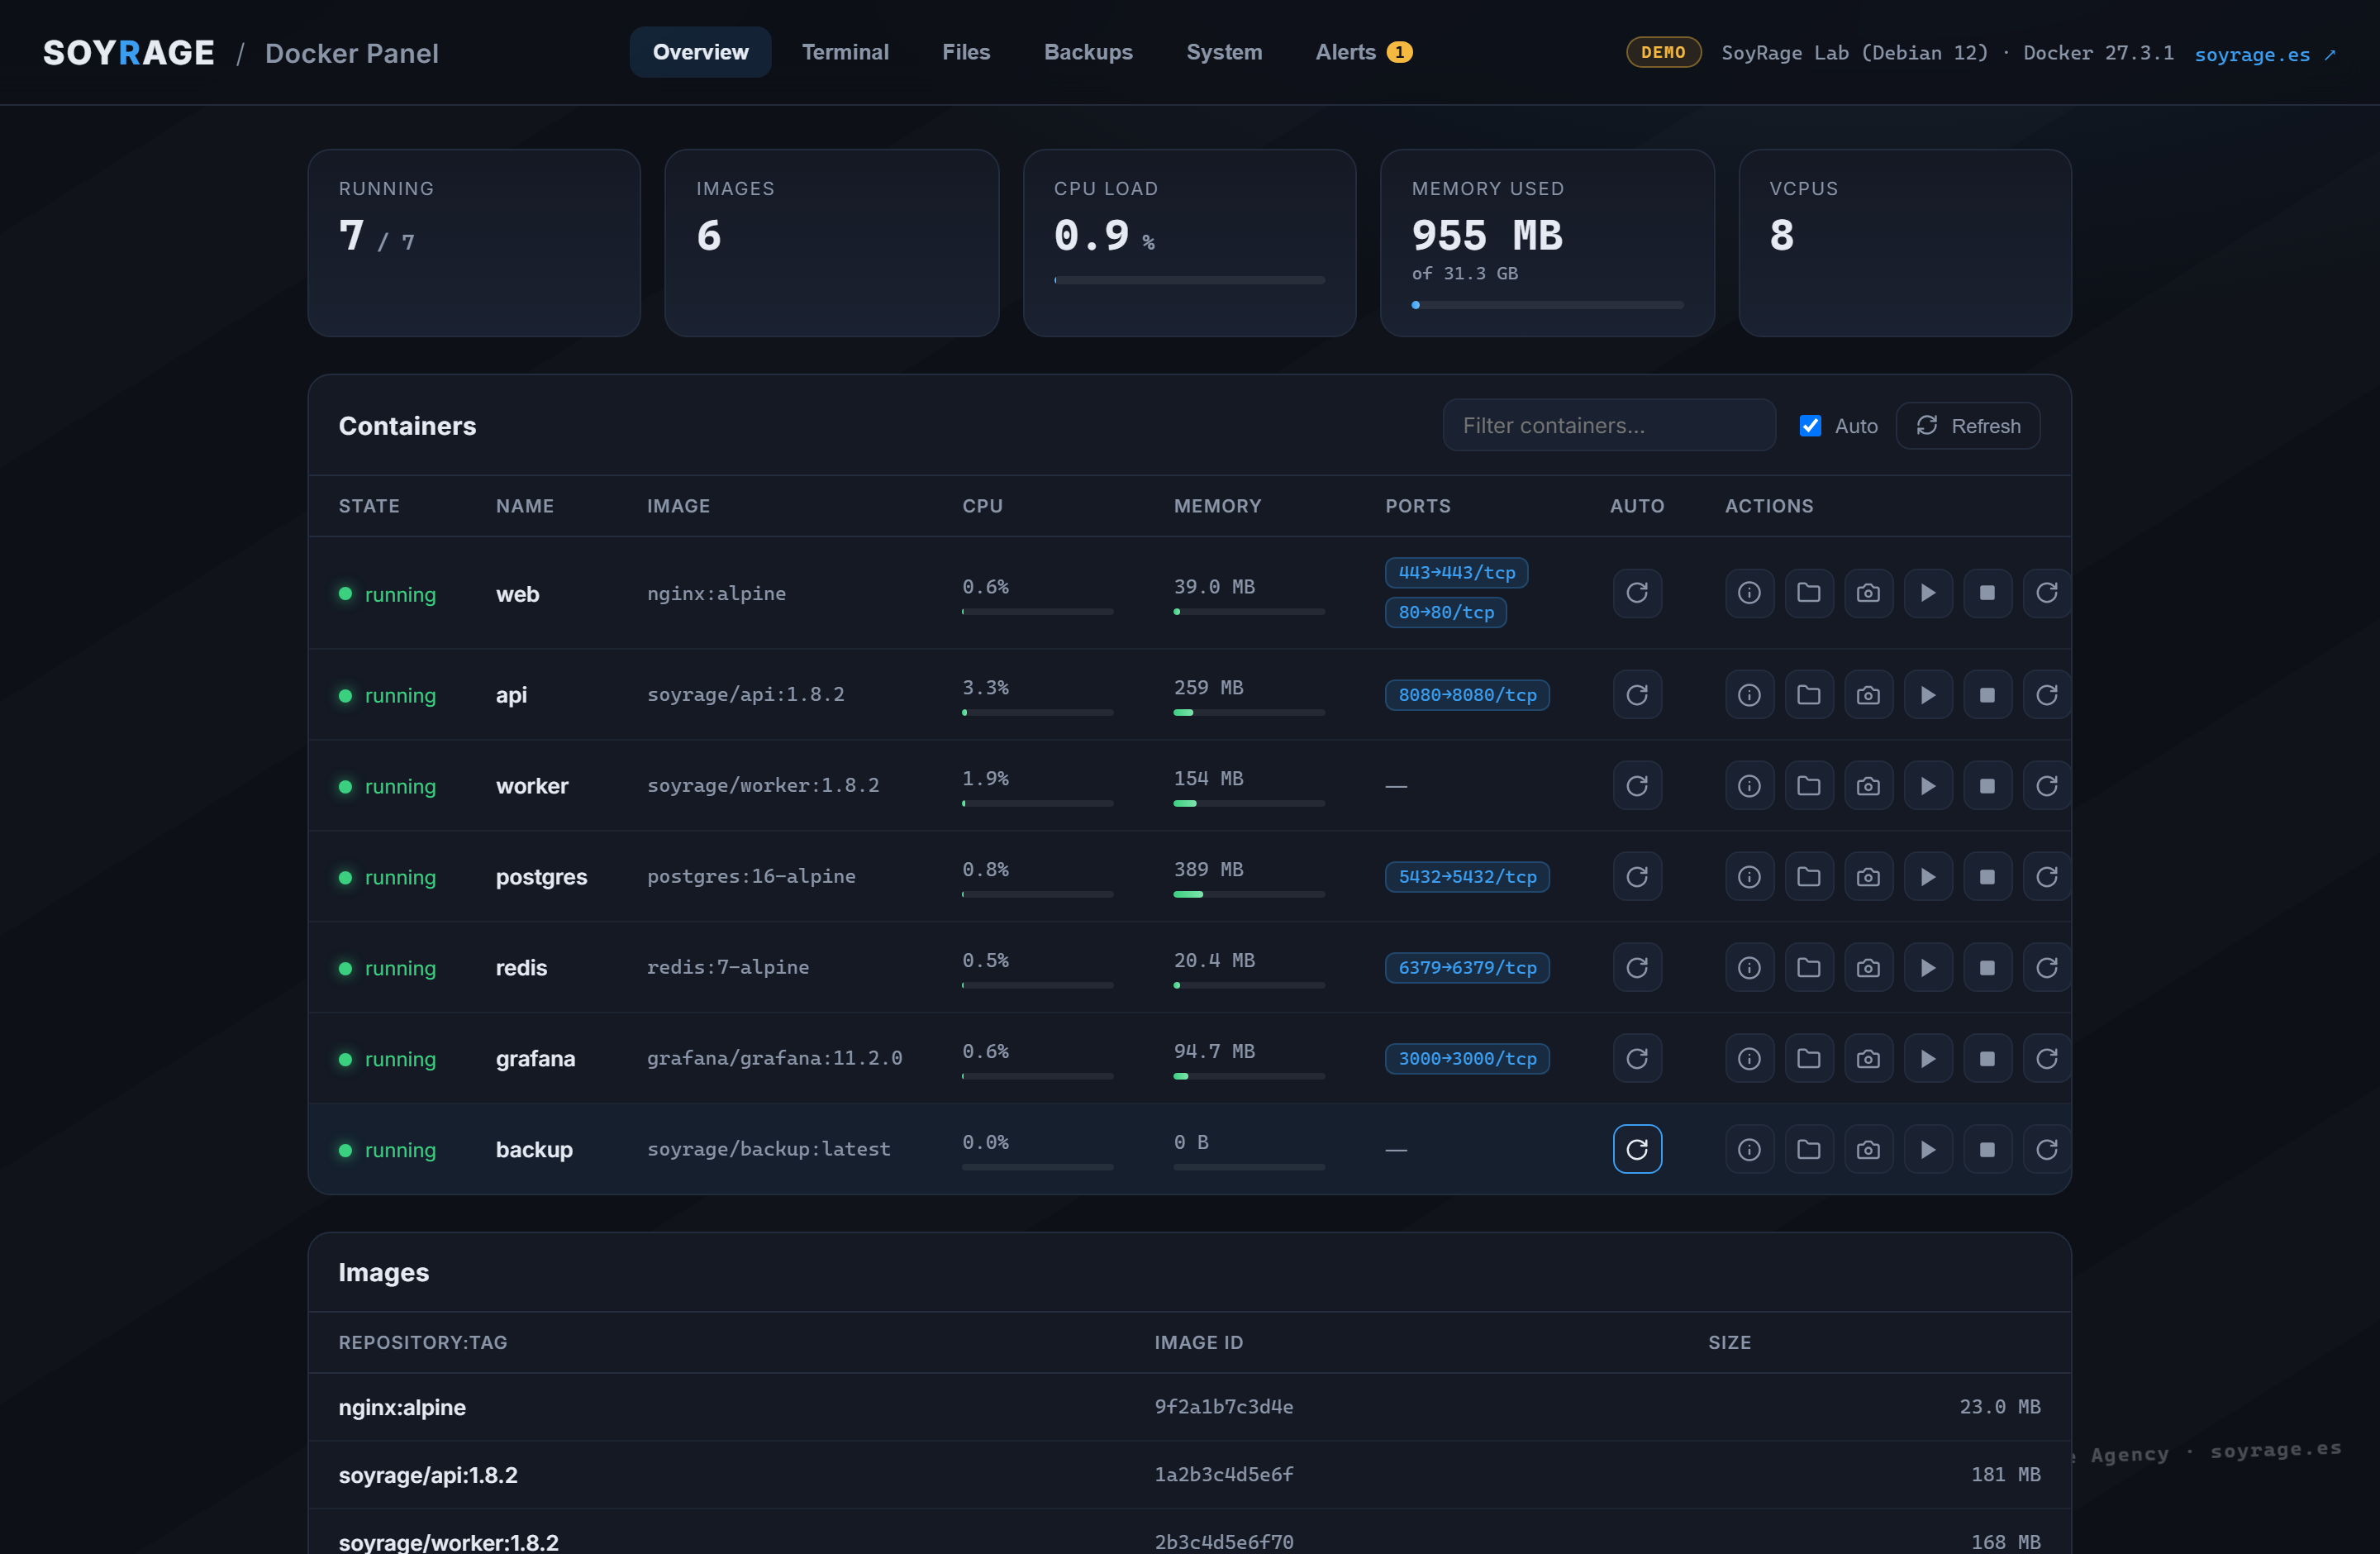
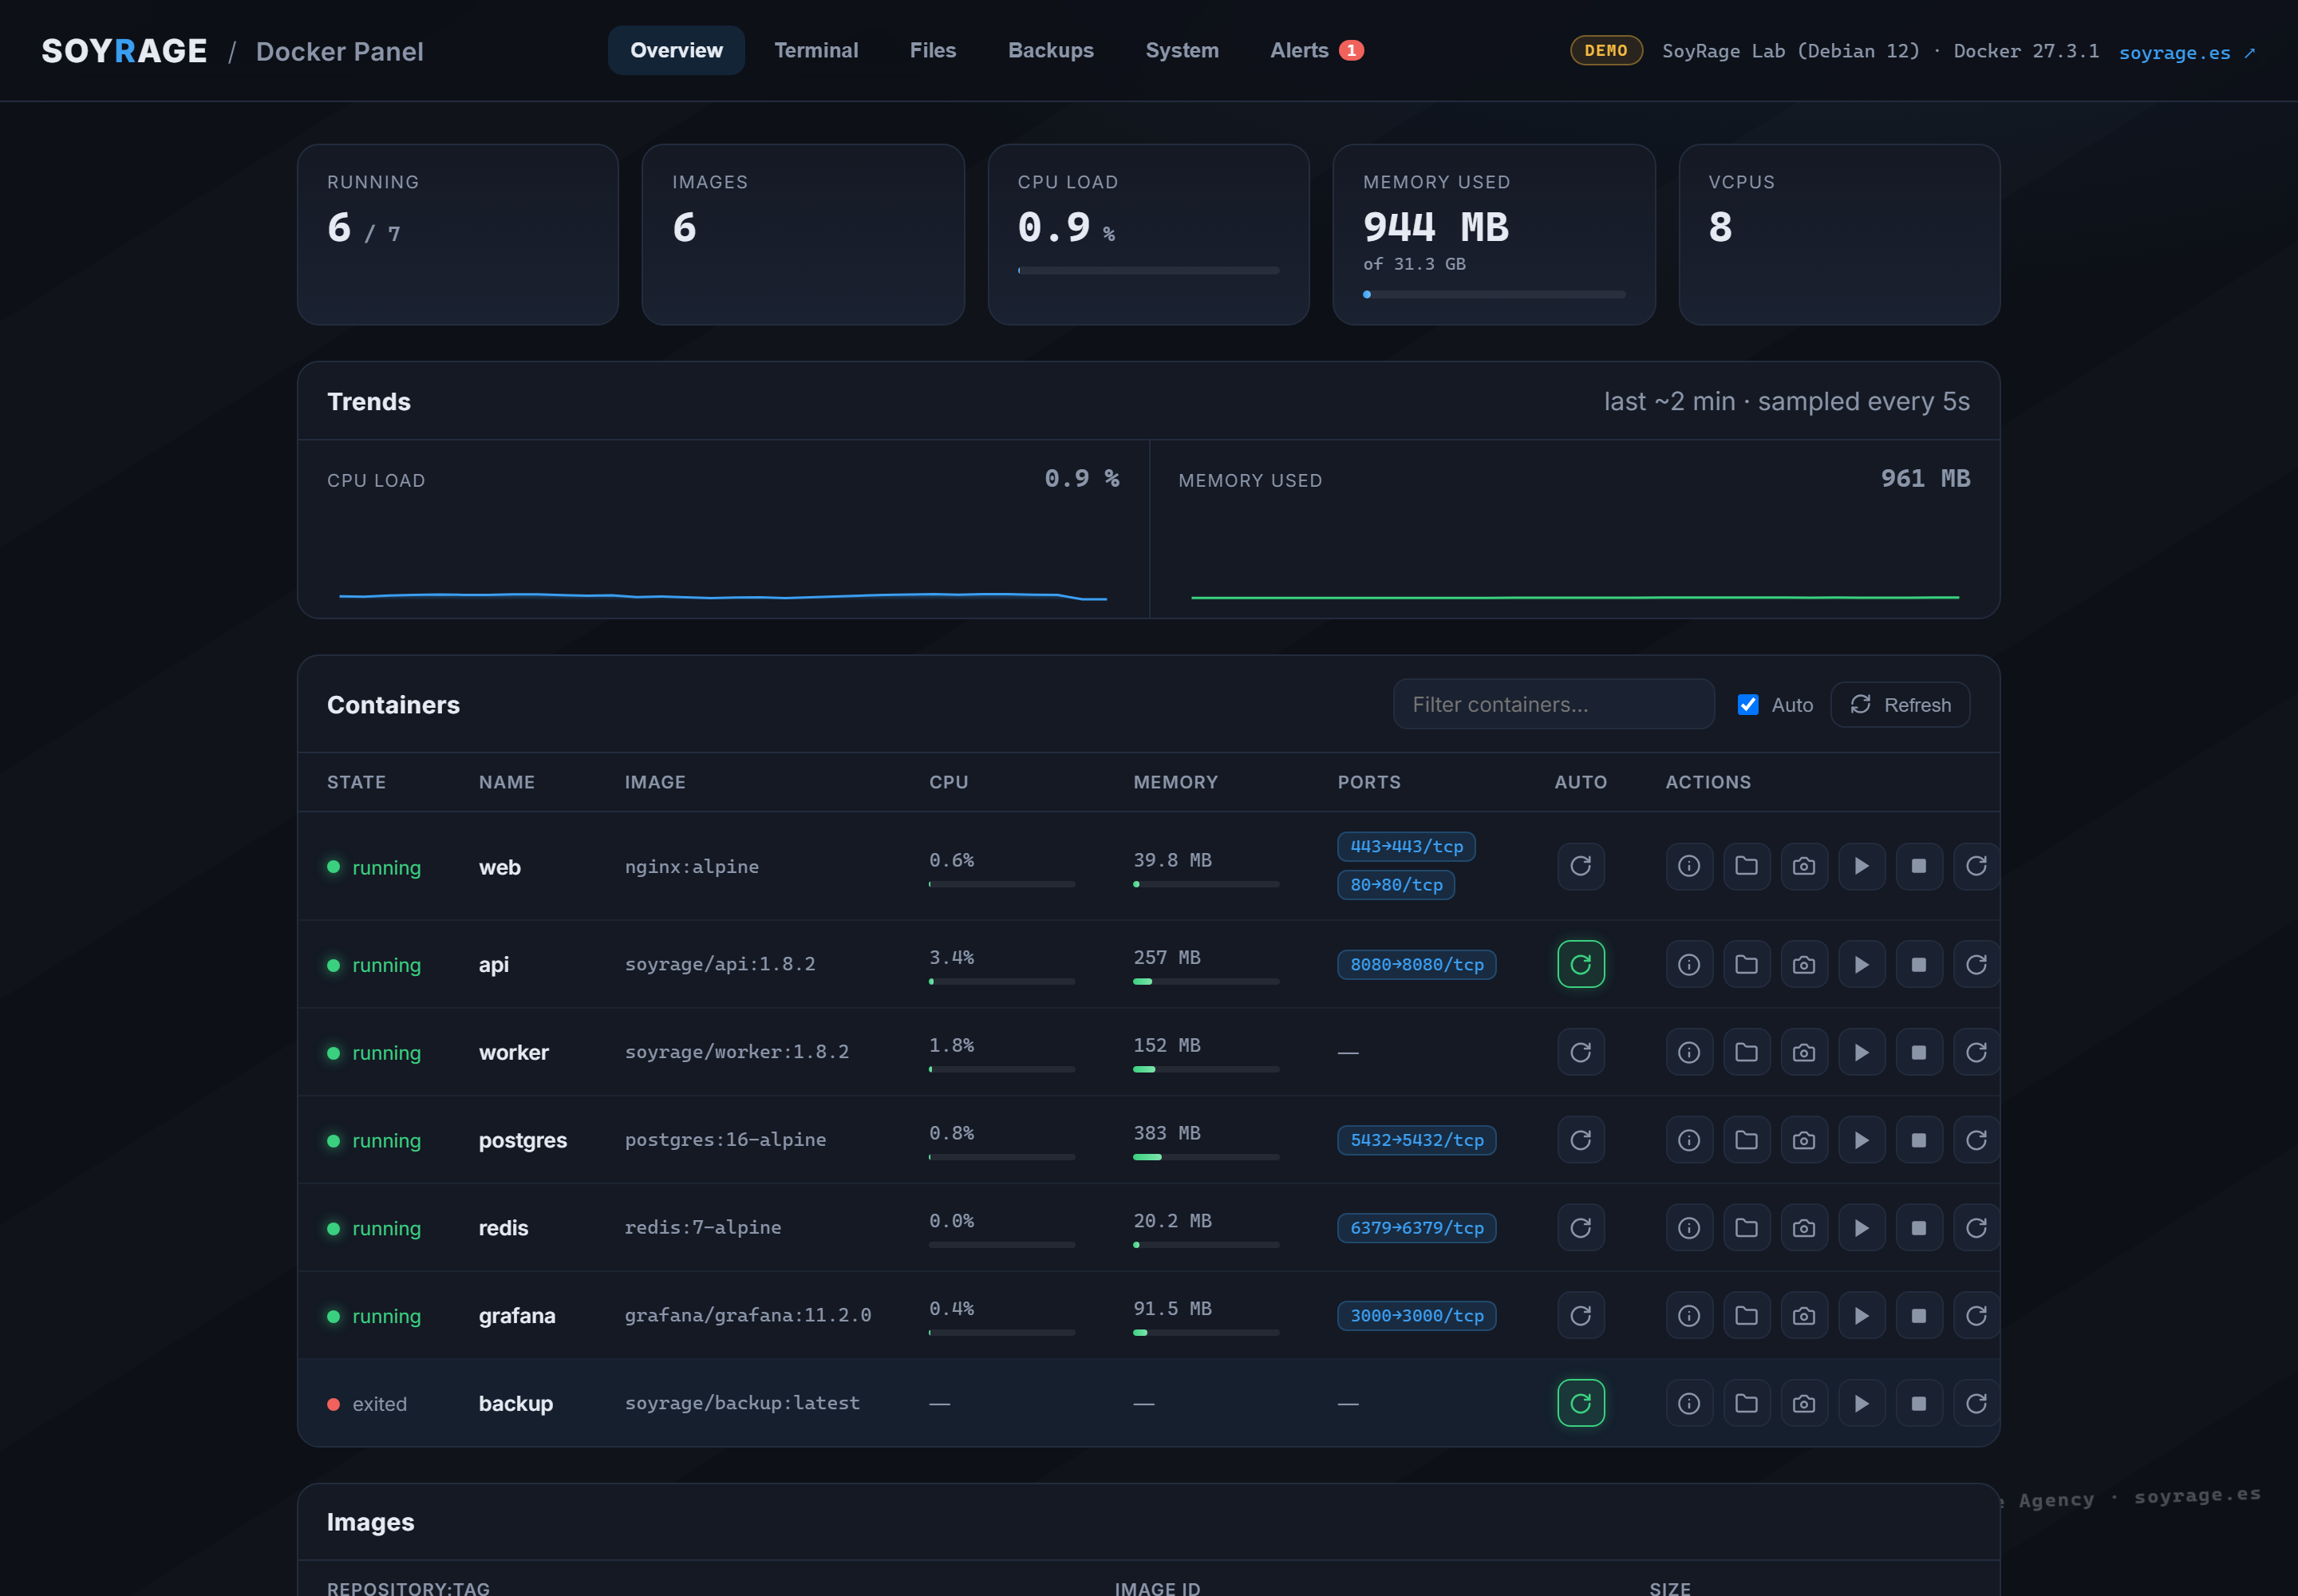
feat: historical CPU/MEM trend charts + GitHub Actions CI
Trends charts
- Panel Overview gains a 'Trends' card with inline-SVG sparklines for CPU load
  and memory over time. Backend samples every 5s into a 60-point ring buffer
  (demo seeds 30 points); exposed via /api/history

Continuous integration
- .github/workflows/ci.yml: on push/PR runs npm ci, typecheck, build, then the
  deep e2e suite against a headless demo panel
- deep-test: cross-platform installer check (Win/macOS/Linux config paths) so
  CI passes on Ubuntu; +history check. Now 70/70

Docs
- README: CI badge, Trends in highlights/overview/API, roadmap ticks, a
  'Continuous integration' section; refreshed dashboard screenshot

Built by SoyRage Agency — https://soyrage.es/

diff --git a/src/panel/service.ts b/src/panel/service.ts
@@ -189,6 +189,10 @@ export class PanelService {
   private schedule: BackupSchedule = { enabled: false, time: "03:00", containers: ["all"], type: "commit", email: "" };
   private scheduler: NodeJS.Timeout | null = null;
   private lastScheduleRun = "";
+  /** Rolling time-series for the Trends charts (most recent last). */
+  private readonly history: Array<{ t: number; cpu: number; mem: number; memBytes: number }> = [];
+  private sampler: NodeJS.Timeout | null = null;
+  private static readonly HISTORY_CAP = 60;
 
   constructor(
     private readonly docker: DockerClient,
@@ -202,6 +206,13 @@ export class PanelService {
         { id: "snap-1001", container: "postgres", type: "export", ref: "./snapshots/postgres-20260716-0300.tar", sizeBytes: 214_958_080, createdAt: "2026-07-16T03:00:04.000Z", destination: "local + webhook" },
         { id: "snap-1000", container: "api", type: "commit", ref: "soyrage-snapshot/api:20260715-0300", sizeBytes: 189_792_256, createdAt: "2026-07-15T03:00:02.000Z", destination: "local" },
       );
+      // Seed the Trends charts so they aren't empty on first load.
+      const now = Date.now();
+      for (let i = 30; i > 0; i--) {
+        const cpu = 4 + Math.sin(i / 3) * 2 + Math.random() * 1.5;
+        const memBytes = 900_000_000 + Math.sin(i / 5) * 60_000_000 + Math.random() * 30_000_000;
+        this.history.push({ t: now - i * 5000, cpu: Math.max(0, cpu), mem: (memBytes / 33_567_776_768) * 100, memBytes });
+      }
     }
   }
 
@@ -371,6 +382,30 @@ export class PanelService {
   stopWatchdog(): void {
     if (this.watchdog) clearInterval(this.watchdog);
     this.watchdog = null;
+  }
+
+  /** Recent CPU/memory samples for the Trends charts. */
+  getHistory(): Array<{ t: number; cpu: number; mem: number; memBytes: number }> {
+    return [...this.history];
+  }
+
+  /** Start sampling CPU/memory into the history ring buffer. */
+  startSampler(intervalMs = 5000): void {
+    if (this.sampler) return;
+    this.sampler = setInterval(() => void this.tickSampler(), intervalMs);
+    if (typeof this.sampler.unref === "function") this.sampler.unref();
+  }
+
+  private async tickSampler(): Promise<void> {
+    try {
+      const snap = await this.snapshot();
+      const cpuPct = snap.system.cpus ? Math.min(100, snap.cpuTotal / snap.system.cpus) : snap.cpuTotal;
+      const memPct = snap.system.memoryBytes ? (snap.memoryUsed / snap.system.memoryBytes) * 100 : 0;
+      this.history.push({ t: Date.now(), cpu: Number(cpuPct.toFixed(2)), mem: Number(memPct.toFixed(2)), memBytes: snap.memoryUsed });
+      while (this.history.length > PanelService.HISTORY_CAP) this.history.shift();
+    } catch {
+      /* transient */
+    }
   }
 
   private async tickWatchdog(): Promise<void> {

diff --git a/src/panel/public/app.js b/src/panel/public/app.js
@@ -112,6 +112,38 @@ function usageCell(level, label, pct) {
     <div class="meter ${tone}"><span style="width:${Math.min(100, pct).toFixed(1)}%"></span></div></div>`;
 }
 
+/** Render an inline SVG area sparkline (values are 0–100). */
+function renderChart(id, values, color) {
+  const el = $("#" + id);
+  if (!el) return;
+  const W = 320, H = 64, pad = 5;
+  if (!values.length) { el.innerHTML = '<div class="muted" style="padding:8px">collecting…</div>'; return; }
+  const step = values.length > 1 ? (W - 2 * pad) / (values.length - 1) : 0;
+  const y = (v) => H - pad - (Math.max(0, Math.min(100, v)) / 100) * (H - 2 * pad);
+  const pts = values.map((v, i) => [pad + i * step, y(v)]);
+  const line = pts.map((p, i) => (i ? "L" : "M") + p[0].toFixed(1) + " " + p[1].toFixed(1)).join(" ");
+  const area = `${line} L ${(pad + (values.length - 1) * step).toFixed(1)} ${H - pad} L ${pad} ${H - pad} Z`;
+  el.innerHTML =
+    `<svg viewBox="0 0 ${W} ${H}" preserveAspectRatio="none" class="spark">
+      <defs><linearGradient id="g-${id}" x1="0" y1="0" x2="0" y2="1">
+        <stop offset="0" stop-color="${color}" stop-opacity="0.35"/>
+        <stop offset="1" stop-color="${color}" stop-opacity="0"/></linearGradient></defs>
+      <path d="${area}" fill="url(#g-${id})"/>
+      <path d="${line}" fill="none" stroke="${color}" stroke-width="1.5"/>
+    </svg>`;
+}
+
+async function loadHistory() {
+  try {
+    const { points } = await api("/api/history");
+    renderChart("chart-cpu", points.map((p) => p.cpu), "#3b9ef0");
+    renderChart("chart-mem", points.map((p) => p.mem), "#3ad07f");
+    const last = points[points.length - 1] || {};
+    $("#cpu-now").textContent = `${(last.cpu ?? 0).toFixed(1)} %`;
+    $("#mem-now").textContent = bytes(last.memBytes || 0);
+  } catch { /* best effort */ }
+}
+
 function renderStats(snap) {
   const sys = snap.system;
   const memPct = sys.memoryBytes ? (snap.memoryUsed / sys.memoryBytes) * 100 : 0;
@@ -691,6 +723,7 @@ async function refresh() {
   renderStats(snap);
   renderContainers(snap.containers);
   renderImages(snap.images);
+  loadHistory();
   // Keep the alert badge fresh without visiting the tab.
   api("/api/alerts").then(({ alerts }) => updateAlertBadge(alerts)).catch(() => {});
 }

diff --git a/src/panel/public/index.html b/src/panel/public/index.html
@@ -43,6 +43,21 @@
       <!-- ============ OVERVIEW ============ -->
       <section id="tab-overview" class="tabpane">
         <div class="stats" id="stats" aria-label="Host statistics"></div>
+
+        <section class="panel">
+          <div class="panel-head"><h2>Trends</h2><span class="muted">last ~2 min · sampled every 5s</span></div>
+          <div class="trend-grid">
+            <div class="trend">
+              <div class="trend-h"><span class="k">CPU load</span><span id="cpu-now" class="v mono">—</span></div>
+              <div id="chart-cpu" class="chart"></div>
+            </div>
+            <div class="trend">
+              <div class="trend-h"><span class="k">Memory used</span><span id="mem-now" class="v mono">—</span></div>
+              <div id="chart-mem" class="chart"></div>
+            </div>
+          </div>
+        </section>
+
         <section class="panel">
           <div class="panel-head">
             <h2>Containers</h2>

diff --git a/src/panel/public/styles.css b/src/panel/public/styles.css
@@ -266,6 +266,16 @@ body.locked { overflow: hidden; }
 .meter.warm > span { background: linear-gradient(90deg, var(--amber), #ffd27a); }
 .meter.hot > span { background: linear-gradient(90deg, var(--red), #ff8f89); }
 
+/* Trends charts */
+.trend-grid { display: grid; grid-template-columns: 1fr 1fr; gap: 1px; background: var(--border); }
+.trend { background: var(--bg-elev); padding: 14px 18px 6px; }
+.trend-h { display: flex; align-items: baseline; justify-content: space-between; }
+.trend-h .k { color: var(--muted); font-size: 11px; text-transform: uppercase; letter-spacing: 0.8px; }
+.trend-h .v { font-size: 16px; font-weight: 700; }
+.chart { margin-top: 8px; height: 64px; }
+.chart .spark { width: 100%; height: 64px; display: block; }
+@media (max-width: 720px) { .trend-grid { grid-template-columns: 1fr; } }
+
 /* Panels */
 .panel {
   background: var(--bg-elev);

diff --git a/src/panel/server.ts b/src/panel/server.ts
@@ -140,6 +140,10 @@ export function createPanelServer(
         return sendJson(res, 200, await service.snapshot());
       }
 
+      if (path === "/api/history") {
+        return sendJson(res, 200, { points: service.getHistory() });
+      }
+
       if (path === "/api/containers") {
         return sendJson(res, 200, await service.containers());
       }
@@ -290,9 +294,10 @@ export function startPanel(
 ): Promise<void> {
   const server = createPanelServer(service, config, logger);
   const { host, port } = config.panel;
-  // Kick off the auto-restart watchdog and the backup scheduler.
+  // Kick off the auto-restart watchdog, backup scheduler and metrics sampler.
   service.startWatchdog();
   service.startScheduler();
+  service.startSampler();
   return new Promise((resolvePromise) => {
     server.listen(port, host, () => {
       logger.info(`Panel ready at http://${host}:${port}`);

diff --git a/README.md b/README.md
@@ -14,6 +14,7 @@
 
 <br/>
 
+[![CI](https://github.com/soyrageagency/docker-mcp-server/actions/workflows/ci.yml/badge.svg)](https://github.com/soyrageagency/docker-mcp-server/actions/workflows/ci.yml)
 [![Node](https://img.shields.io/badge/Node-%3E%3D18-3c873a?logo=node.js&logoColor=white)](https://nodejs.org)
 [![TypeScript](https://img.shields.io/badge/TypeScript-5.5-3178c6?logo=typescript&logoColor=white)](https://www.typescriptlang.org/)
 [![MCP](https://img.shields.io/badge/MCP-1.x-6E56CF)](https://modelcontextprotocol.io)
@@ -184,7 +185,7 @@ npm run panel:demo     # same, but with realistic mock data (no daemon needed)
 **Panel highlights**
 
 - **Tabbed layout** — *Overview*, *Terminal*, *Files*, *Backups*, *System* and *Alerts*, with a live alert badge in the header.
-- **Live monitoring** — CPU‑load and memory‑used cards with meters, plus per‑container CPU % and memory bars sampled from the Docker Engine.
+- **Live monitoring + Trends** — CPU‑load and memory‑used cards with meters, per‑container CPU % and memory bars, and **historical sparkline charts** (sampled every 5s) for CPU and memory over time.
 - **⌨️ AI‑powered terminal** — type `docker …` for typo‑tolerant, context‑aware completions (**Tab**/**↑↓**/**Enter**), **or** type a request in plain English (*“why did web crash”*) and pick **Ask AI** — the copilot proposes a command you review, then run. Commands are parsed to an argv array and spawned **without a shell**; a deny‑list blocks dangerous verbs and write verbs respect read‑only mode. AI uses any OpenAI‑compatible endpoint (OpenAI, **Ollama**, LM Studio…); without one it falls back to rule‑based suggestions.
 - **📁 File explorer + editor** — browse any container's filesystem (breadcrumbs, up‑navigation), **open and edit** text/`.sh`/config files, and **Save** back into the container. An **AI edit** button rewrites the file from a plain‑English instruction. Safe, shell‑free `exec`; edits are blocked in read‑only mode.
 - **📸 Snapshots & scheduled backups** — snapshot a container as an image (`commit`) or a filesystem `export` (`.tar`) to a chosen directory; schedule a daily backup (time, containers, type); a **webhook** forwards each backup to **email, Google Drive or S3** via Zapier / Make / n8n.
@@ -196,7 +197,7 @@ npm run panel:demo     # same, but with realistic mock data (no daemon needed)
 - **Demo mode** — `DOCKER_MCP_PANEL_DEMO=true` serves fabricated‑but‑realistic data (with gentle live jitter), perfect for previews and client demos with no daemon.
 - **Zero UI dependencies** — hand‑written HTML/CSS/JS served by a Node‑core HTTP server.
 
-**Panel REST API** (all local): `/api/snapshot` · `/api/containers` · `/api/images` · `/api/logs` · `/api/action` · `/api/run` · `/api/ai` · `/api/files` · `/api/file` (GET read / POST save) · `/api/inspect` · `/api/networks` · `/api/volumes` · `/api/backups` · `/api/backup` · `/api/schedule` · `/api/alerts` · `/api/autorestart` · `/metrics`.
+**Panel REST API** (all local): `/api/snapshot` · `/api/history` · `/api/containers` · `/api/images` · `/api/logs` · `/api/action` · `/api/run` · `/api/ai` · `/api/files` · `/api/file` (GET read / POST save) · `/api/inspect` · `/api/networks` · `/api/volumes` · `/api/backups` · `/api/backup` · `/api/schedule` · `/api/alerts` · `/api/autorestart` · `/metrics`.
 
 **AI copilot (optional):** set `DOCKER_MCP_AI_ENDPOINT` (+ `DOCKER_MCP_AI_KEY`, `DOCKER_MCP_AI_MODEL`) to power the AI terminal and AI file‑editing. Works with **OpenAI**, **Ollama** (`http://localhost:11434/v1`, free & local), **LM Studio**, or any OpenAI‑compatible API. Demo mode simulates it so you can try the UX offline.
 
@@ -682,6 +683,14 @@ npm run clean      # remove dist/
 
 **Coding standards:** TypeScript `strict` with `noUnusedLocals`, `noUnusedParameters`, `noImplicitReturns` and `noFallthroughCasesInSwitch`. Every source file carries a SoyRage Agency attribution header.
 
+**Continuous integration:** [`.github/workflows/ci.yml`](./.github/workflows/ci.yml) runs on every push/PR — install, type‑check, build, then the **deep end‑to‑end suite** (`node scripts/deep-test.mjs`, **70 checks**) against a headless demo panel. Run it locally anytime:
+
+```bash
+npm run build
+DOCKER_MCP_PANEL_DEMO=true DOCKER_MCP_PANEL_PORT=4600 node dist/panel/index.js &
+node scripts/deep-test.mjs
+```
+
 ---
 
 ## 🩺 Troubleshooting & FAQ
@@ -725,14 +734,16 @@ No. This server talks only to your Docker daemon and your MCP client over local 
 
 ## 🗺️ Roadmap
 
-- [x] Interactive web panel with live monitoring
+- [x] Interactive web panel with live monitoring + historical charts
 - [x] Creative terminal UI (TUI)
 - [x] Prometheus `/metrics` endpoint (Prometheus/Zabbix ready)
+- [x] AI‑powered terminal & file editing (OpenAI‑compatible)
+- [x] One‑command installer + CI (build/typecheck/70‑check e2e)
 - [ ] `follow_logs` streaming with server‑sent progress
 - [ ] Image pull/build tools with progress reporting
 - [ ] Prune tools (`docker system prune`) gated behind explicit confirmation
 - [ ] MCP **resources** for read‑only container/stack snapshots
-- [ ] Historical metrics retention & built‑in charts
+- [ ] Native SMTP + direct S3/Drive backup destinations
 - [ ] Published npm package for one‑line `npx` usage
 
 Ideas and PRs welcome — see below.